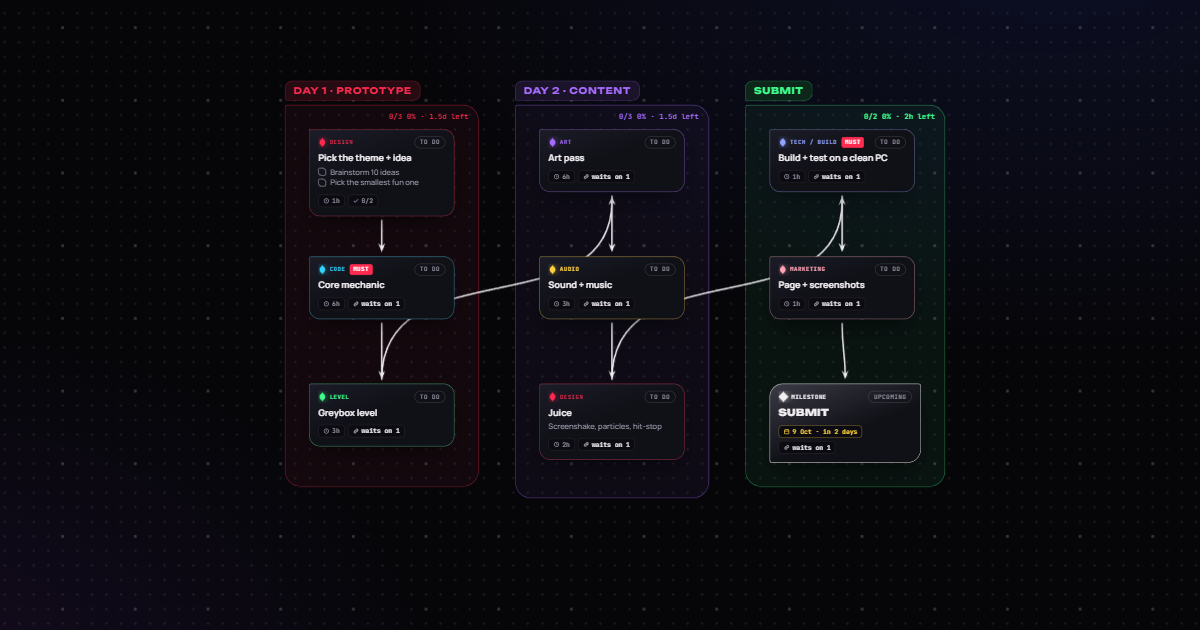
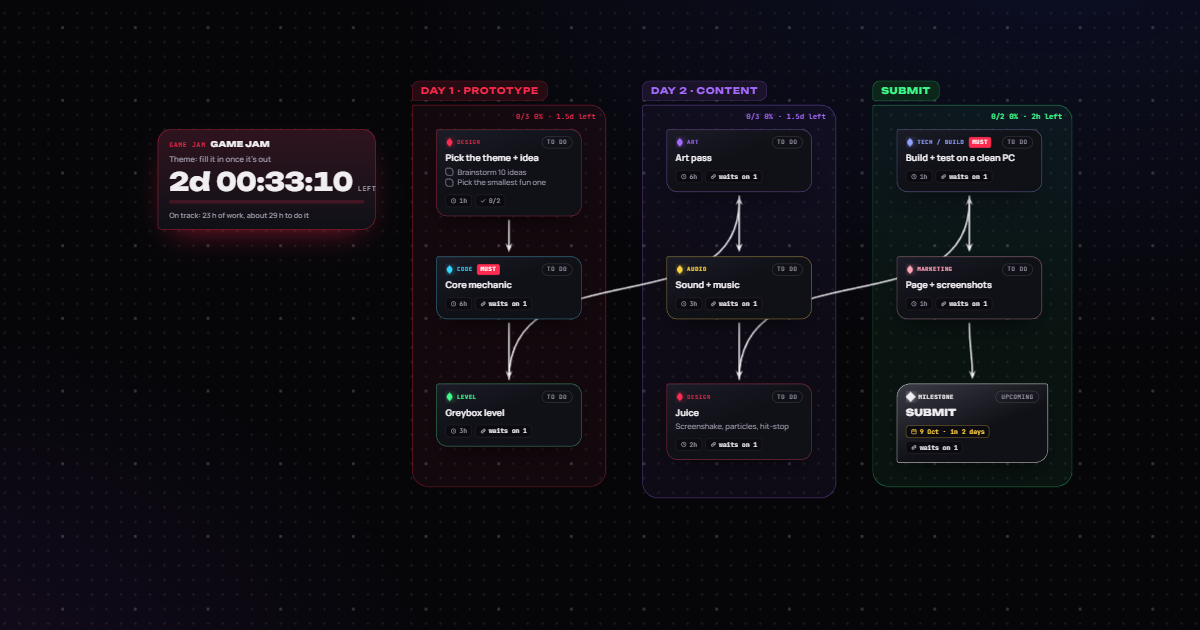
Docs: public roadmaps, link previews, timelapse, game jam clock, twelve templates

Changed region(s): [[0.1233, 0.1206, 0.8942, 0.754], [0.8325, 0.4222, 0.8633, 0.4524]]

diff --git a/README.md b/README.md
@@ -54,6 +54,7 @@ Solo boards need no account, no subscription and no telemetry. They work offline
 - Snap guides, align, distribute, pack into a grid, lock items, bring to front or send to back
 - **Videos and GIFs** as references: GIFs animate on the board, video files play on hover or double-click (loop, autoplay, sound), and YouTube or Vimeo links become players that only load when you click them
 - Export the whole board or just the selection as a 2× PNG
+- **Timelapse**: turn a board's history into a video of it coming together (landscape, square or vertical, saved as MP4 or WebM), ready for #screenshotsaturday, TikTok or Shorts. Team projects use their version history; boards on your computer keep a snapshot every 20 minutes of work
 
 ### Production planning
 - Four card types: **Task**, **Milestone**, **Bug** (crash / major / minor / polish) and **Idea note**
@@ -67,7 +68,8 @@ Solo boards need no account, no subscription and no telemetry. They work offline
 - **Timeline** (`Shift+G`): every task scheduled in working days from its estimate and what it waits on, with the **critical path** that decides your finish date, due dates you'll miss, and finished work
 - **Import** from **Trello** (JSON export), **Jira** (CSV export) or any spreadsheet saved as CSV: lists, sprints or statuses become phases, with statuses, priorities, estimates, due dates and checklists carried over
 - **Search everything** (`Ctrl+Shift+F`): every board on this computer and every team project you're in, at once
-- **10 game-dev templates**: feature, level and character pipelines, vertical slice, weekly sprint board, bug triage, playtest loop, 48-hour game jam, Steam launch and a design-doc outline
+- **12 game-dev templates**: game roadmap, feature, level and character pipelines, vertical slice, weekly sprint board, bug triage, playtest loop, 48-hour game jam, Steam launch, a design-doc outline and an art moodboard. Browse them at [venomboard.com/templates](https://venomboard.com/templates) and open one in a click
+- **Game jam clock**: the deadline counting down on the board and in the top bar, the theme (or when it's revealed), a scope check of the work left against the time you have, and **Cut scope** to drop the lowest-priority work until it fits, with reminders as the deadline nears
 - **Export to Markdown** (GitHub, Notion, Discord) and **CSV** (Sheets, Jira, Trello)
 - **Board lock**: a view-only mode for reviews and sharing, so nothing gets nudged by accident
 
@@ -83,7 +85,8 @@ Solo boards need no account, no subscription and no telemetry. They work offline
 - **Activity feed**: who added, finished, deleted or commented on what, gathered into readable lines
 - **Follow** a teammate's view by clicking their avatar, or **present** (editors and up) so everyone in the project follows you
 - **Version history**: the board is kept before each burst of editing, plus versions you name; restore any of them for everyone, or open one as a copy
-- **View-only links**: anyone with the link can watch a board live without an account, without seeing who's there or changing anything
+- **View-only links**: anyone with the link can watch a board live without an account, without seeing who's there or changing anything. Posted on Discord, Reddit or X, a link shows a picture of the board
+- **Public roadmaps**: a page your players can follow, with your phases, what's planned, in progress and done, milestone dates, votes on what they want most, an RSS feed and an embed for your own site. Pictures, comments, people and estimates are never shown, and any card can be kept off it
 - **Discord**: post finished tasks, reached milestones, comments, restores and new members to a channel
 - **Viewers** watch live without being able to change anything
 - **Account settings** (`Ctrl+,`): change your display name, your cursor colour and your password, turn on **two-step sign-in** with an authenticator app (with recovery codes), see where you're signed in and sign out everywhere else, or delete your account
@@ -104,7 +107,7 @@ Solo boards need no account, no subscription and no telemetry. They work offline
 | ![Planner panel with filters](docs/screenshots/planner.png) | ![Close-up of task cards](docs/screenshots/cards.png) |
 | **Planner** · progress, milestone countdowns and filters that dim the rest of the board | **Cards** · discipline, priority, estimates, due dates, checklists and dependencies |
 | ![Place next picker](docs/screenshots/place-next.png) | ![Template gallery](docs/screenshots/templates.png) |
-| **Place next** · drag a tendril into empty space to choose the next card | **Templates** · ten ready-made game production structures |
+| **Place next** · drag a tendril into empty space to choose the next card | **Templates** · twelve ready-made game production structures |
 | ![Window menu](docs/screenshots/window-menu.png) | ![Anti-Venom light skin](docs/screenshots/anti-venom.png) |
 | **Overlay controls** · pin, lock, click-through, opacity, board lock | **Anti-Venom** · the light skin |
 

diff --git a/CHANGELOG.md b/CHANGELOG.md
@@ -2,6 +2,24 @@
 
 All notable changes to Venom Board are listed here. The project follows [Semantic Versioning](https://semver.org).
 
+## [Unreleased]
+
+### Sharing
+- **Public roadmaps**: publish a page players can follow from the Team panel: phases, what's planned, in progress and done, ideas if you want, and milestone dates with countdowns. Players vote for what they want most (the team sees the votes on the cards), follow it with RSS, and you can embed it on your own site. Pictures, comments, people and estimates are never shown; right-click a card to keep it off. Admins choose what shows and can take it down at any time
+- **Link previews**: a view-only link or public roadmap posted on Discord, Reddit or X shows a picture of the board with its name. The picture updates as the board changes, or straight away from the Team panel
+- The view-only page links back with "Make your own board · free"
+
+### Planning
+- **Game jam clock**: right-click the board → Game jam clock, or start from the 48-hour jam template. It counts down to the deadline (in the top bar too), shows the theme or when it's revealed, and checks the work left against the time you have. **Cut scope** marks the lowest-priority work Won't until it fits, never Must work. Reminders come at 24 hours, 6 hours, 1 hour and 15 minutes left
+- Two new templates: **Game roadmap** (pre-production to launch with dated milestones) and **Art moodboard**
+- Template links: venomboard.com/templates opens any template in the web app in one click
+
+### References
+- **Timelapse** (Boards menu): a video of the board coming together from its history, with a title, the time of each moment and a "Made with Venom Board" ending. Landscape, square or vertical; saved as MP4 where possible, otherwise WebM. Boards on this computer keep a snapshot every 20 minutes of work for it (the last 60)
+
+### Fixes
+- A narrow frame's progress moves inside its top corner instead of covering its title
+
 ## [1.2.0] - 2026-10-07
 
 ### Teams
